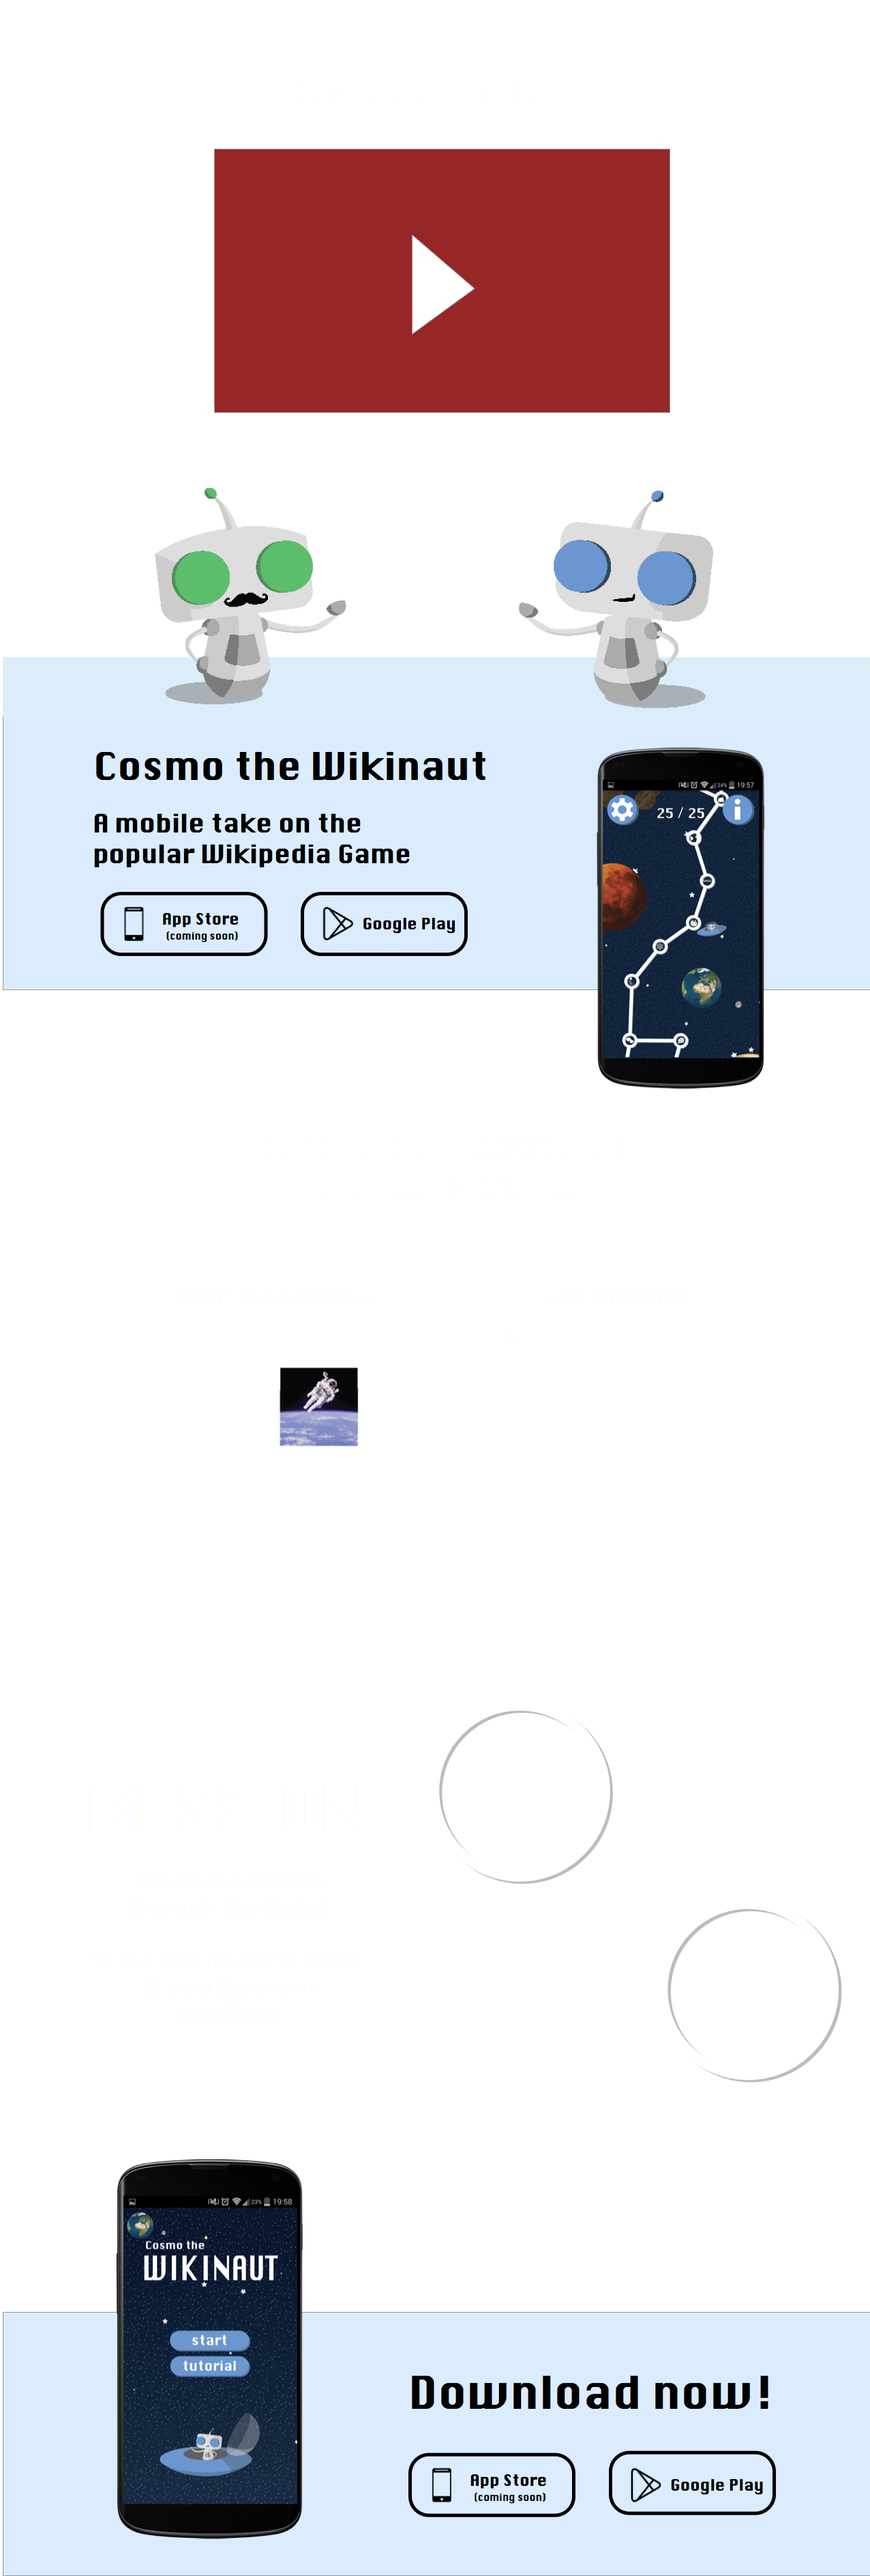
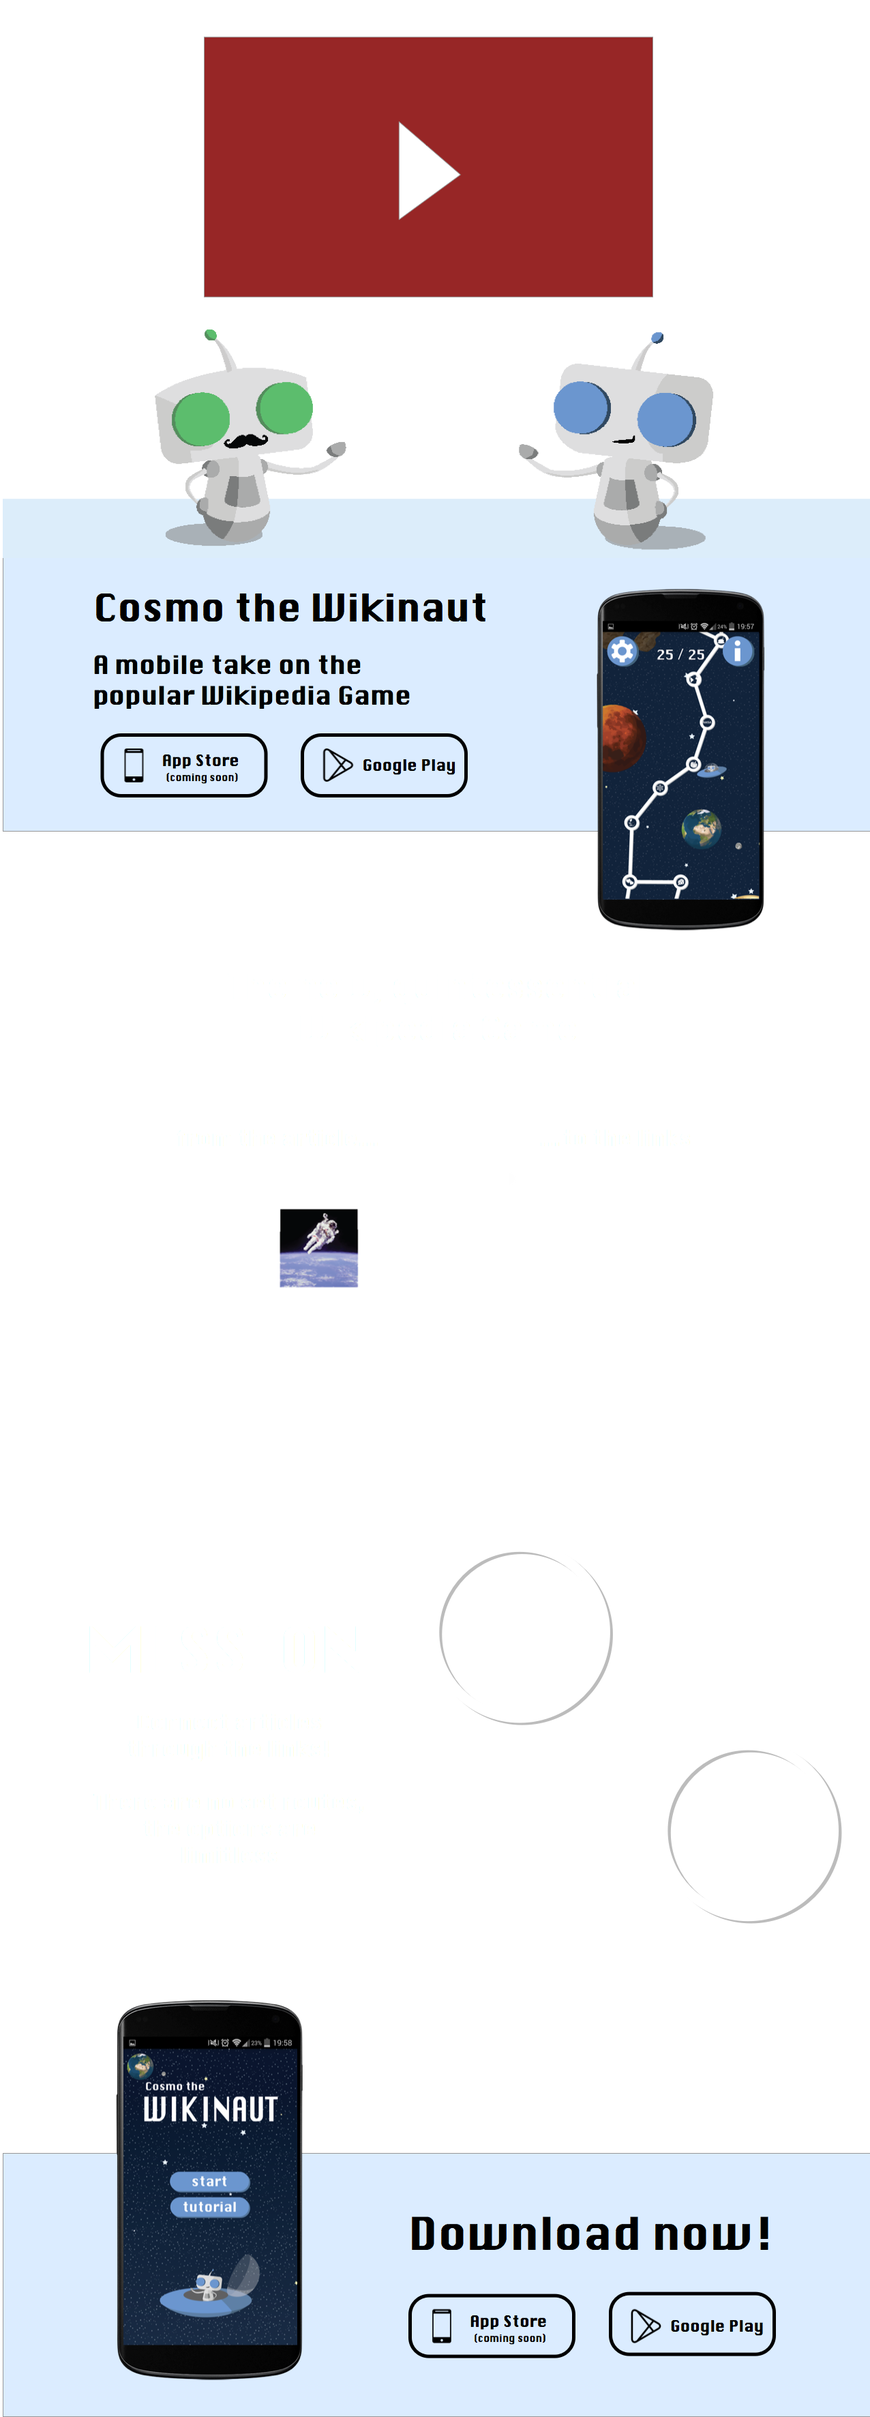
Added "mobile" version. Still all just one image

diff --git a/js/main.js b/js/main.js
@@ -1,22 +1,23 @@
 $(document).ready(function() {
 
 	$(document).on("scroll",stars);
-	// $(document).on("scroll",console);
-
+	$(window).resize(function () {
+    	stars();
+	});
 });
 
 function stars(event){
 	var scrollPos = $(document).scrollTop();
 	var scrollPosHalf = scrollPos/2;
 	var scrollPosQuarter = scrollPos/4;
-	var bodyHeight = $(".testing").height();
+	var bodyWidth = $("body").width();
+	if ( bodyWidth > 700){
+		var bodyHeight = $(".desktop").height();
+	}
+	else{
+		var bodyHeight = $(".mobile").height();
+	}
 	var stars = $(".stars");
 	stars.css("top",scrollPosQuarter).css("height",bodyHeight-scrollPosQuarter);
-	var console = $(".console");
-	console.css("height",bodyHeight);
-
-}
-
-function console(event){
 
 }

diff --git a/index.html b/index.html
@@ -4,7 +4,7 @@
 	<title>Wikinauts</title>
 	<link rel="stylesheet" href="css/bootstrap.min.css">
 	<link rel="stylesheet" href="css/style.css">
-	<link rel
+	<link rel="icon" href="favicon.png">
 </head>
 <body>
 	<div class="stars"></div>
@@ -18,7 +18,9 @@
 		<div class="console-border corner bottom-right"></div>
 		<div class="cconsole-border corner bottom-left"></div>
 	</div> -->
-	<img src="img/Wikinaut_Site.png" class="testing">
+	<img src="img/Wikinaut_Site_mobile.png" class="testing mobile">
+	<img src="img/Wikinaut_Site.png" class="testing desktop">
+
 	<div class="container" id="main">
 	<!-- 	<div class="row">
 			<div class="col-md-12 text-center">

diff --git a/css/style.css b/css/style.css
@@ -29,6 +29,14 @@ body{
 	height:auto;
 }
 
+.mobile{
+	display:none;
+}
+
+.desktop{
+
+}
+
 /*************************************
 CONSOLE
 **************************************/
@@ -109,4 +117,26 @@ FONTS
 @font-face {
   font-family: "Krungthep";
   src: url(../fonts/Krungthep.ttf) format("truetype");
+}
+
+/*************************************
+MEDIA QUERIES
+**************************************/
+
+@media all and (min-width: 701){
+	.destop{
+		display:block;
+	}
+	.mobile{
+		display:none;
+	}
+}
+
+@media (min-width: 0px) and (max-width: 700px){
+	.desktop{
+		display:none;
+	}
+	.mobile{
+		display:block;
+	}
 }
